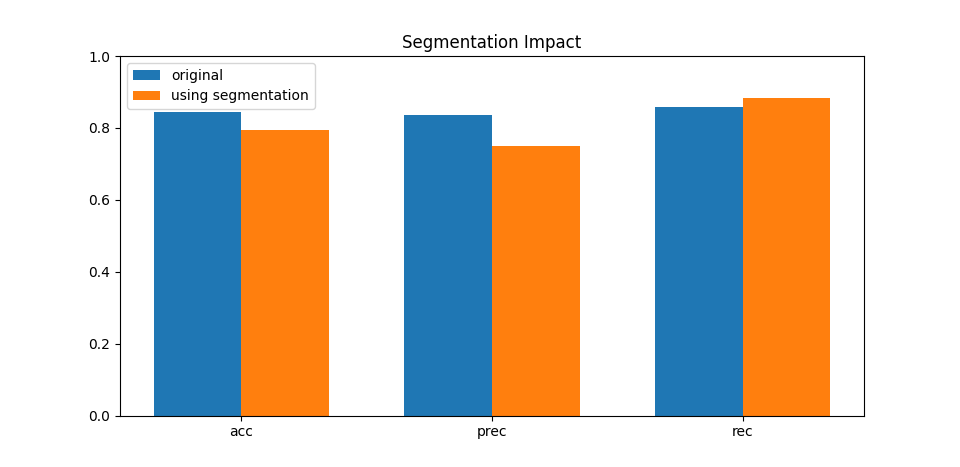
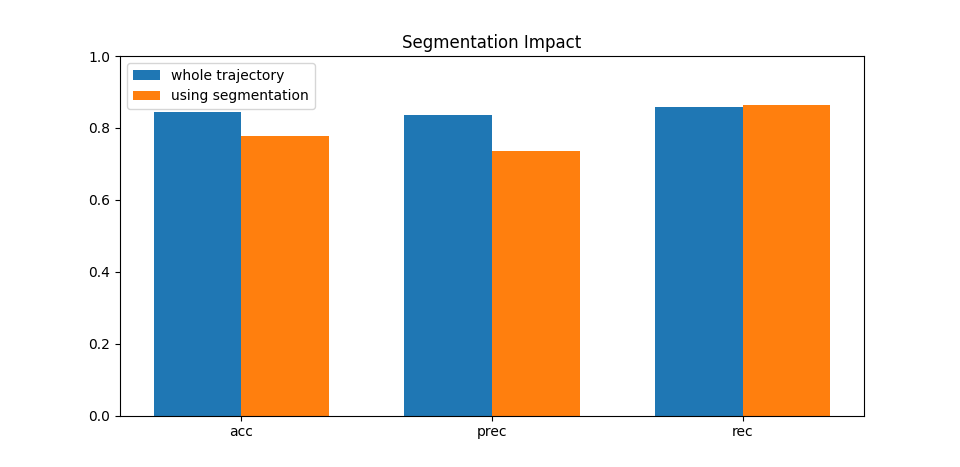
Fix segmentations impact legend label

diff --git a/src/behavior-detection-module/interesting_episodes_detection/segments_species_impact.py b/src/behavior-detection-module/interesting_episodes_detection/segments_species_impact.py
@@ -152,7 +152,7 @@ def plot_segmentation_impact(original_results, segments_results):
     plt.figure()
     plt.title("Segmentation Impact")
     plt.ylim([0, 1])
-    plt.bar(x - width/2, original_results, width, label='original')
+    plt.bar(x - width/2, original_results, width, label='whole trajectory')
     plt.bar(x + width/2, segments_results, width, label='using segmentation')
 
     plt.gca().set_xticks(x)
